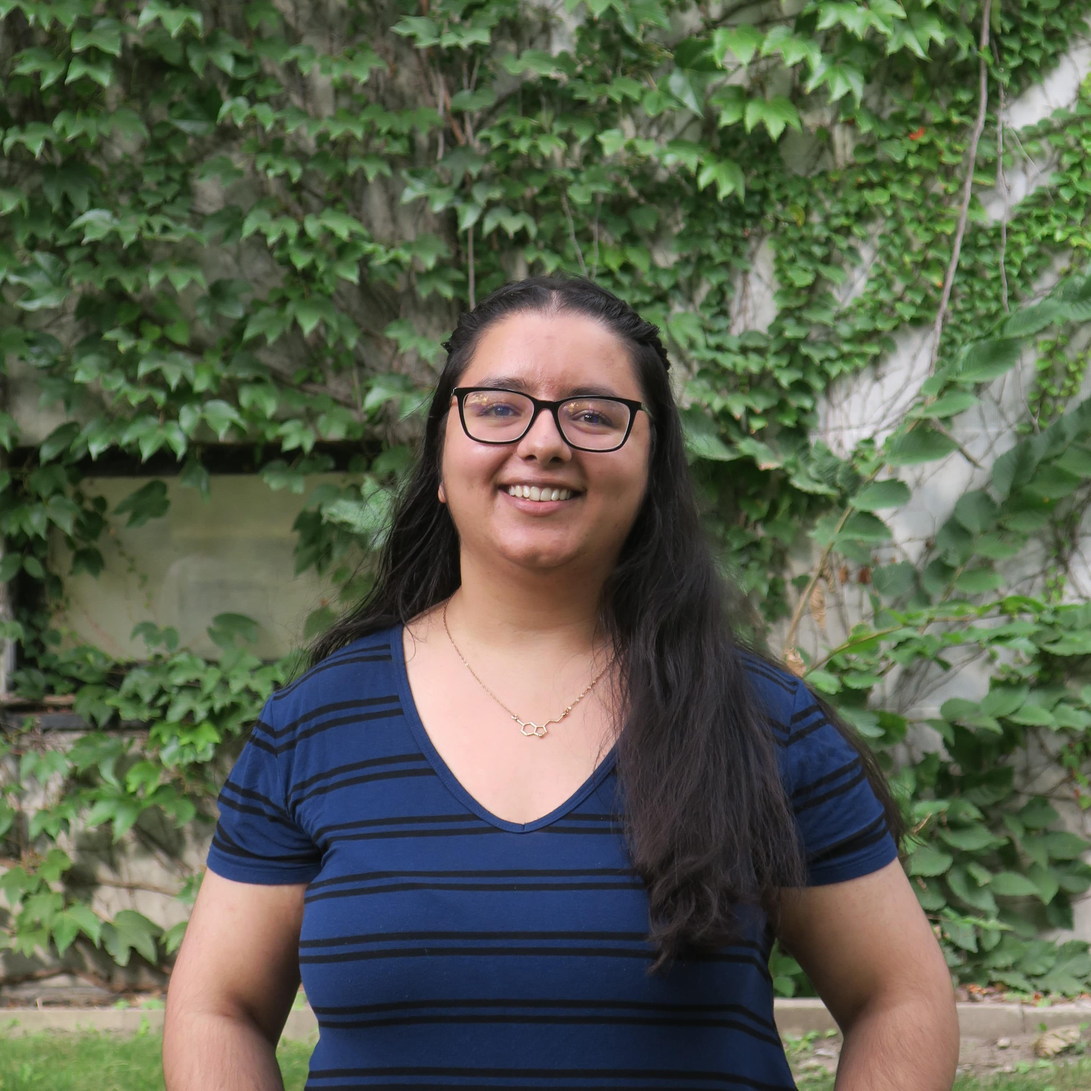
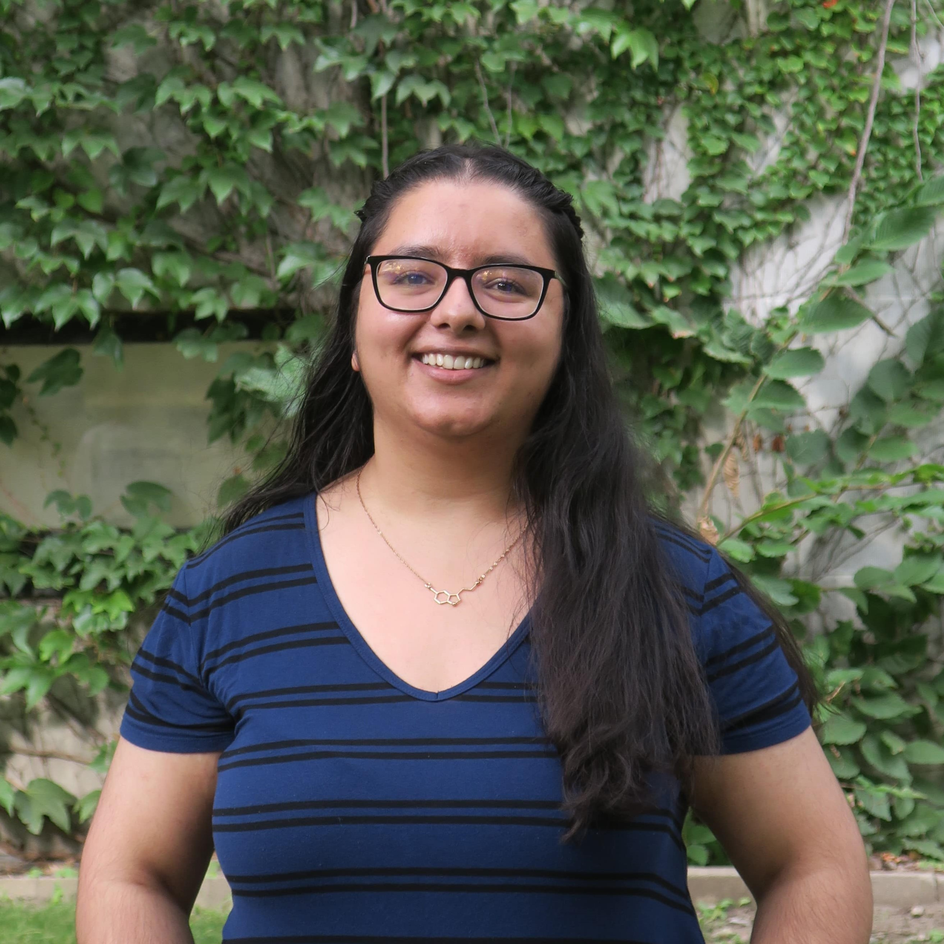
Update lab members page images + add nathalie's text

diff --git a/about-us.html b/about-us.html
@@ -348,6 +348,11 @@
                     <p><a href="mailto:nathalie.singh@mail.mcgill.ca">nathalie.singh@mail.mcgill.ca</a></p>
                   </div>
                   <div class="description">
+                    Nathalie is from Surrey, BC, and completed her BSc in Chemistry at The King's University in Edmonton, AB. After completing
+                    an internship in an industrial analytical laboratory, Nathalie joined the Harrington Lab to combine her interdisciplinary
+                    background and admiration of hierarchical materials. Her project focuses on the characterization of sea cucumber dermis, with
+                    the hopes of its use as a tunable scaffold in tissue engineering. Outside of the lab, Nathalie enjoys bouldering, hiking, and
+                    getting ice cream with friends.
                   </div>
                 </div>
               </div>
